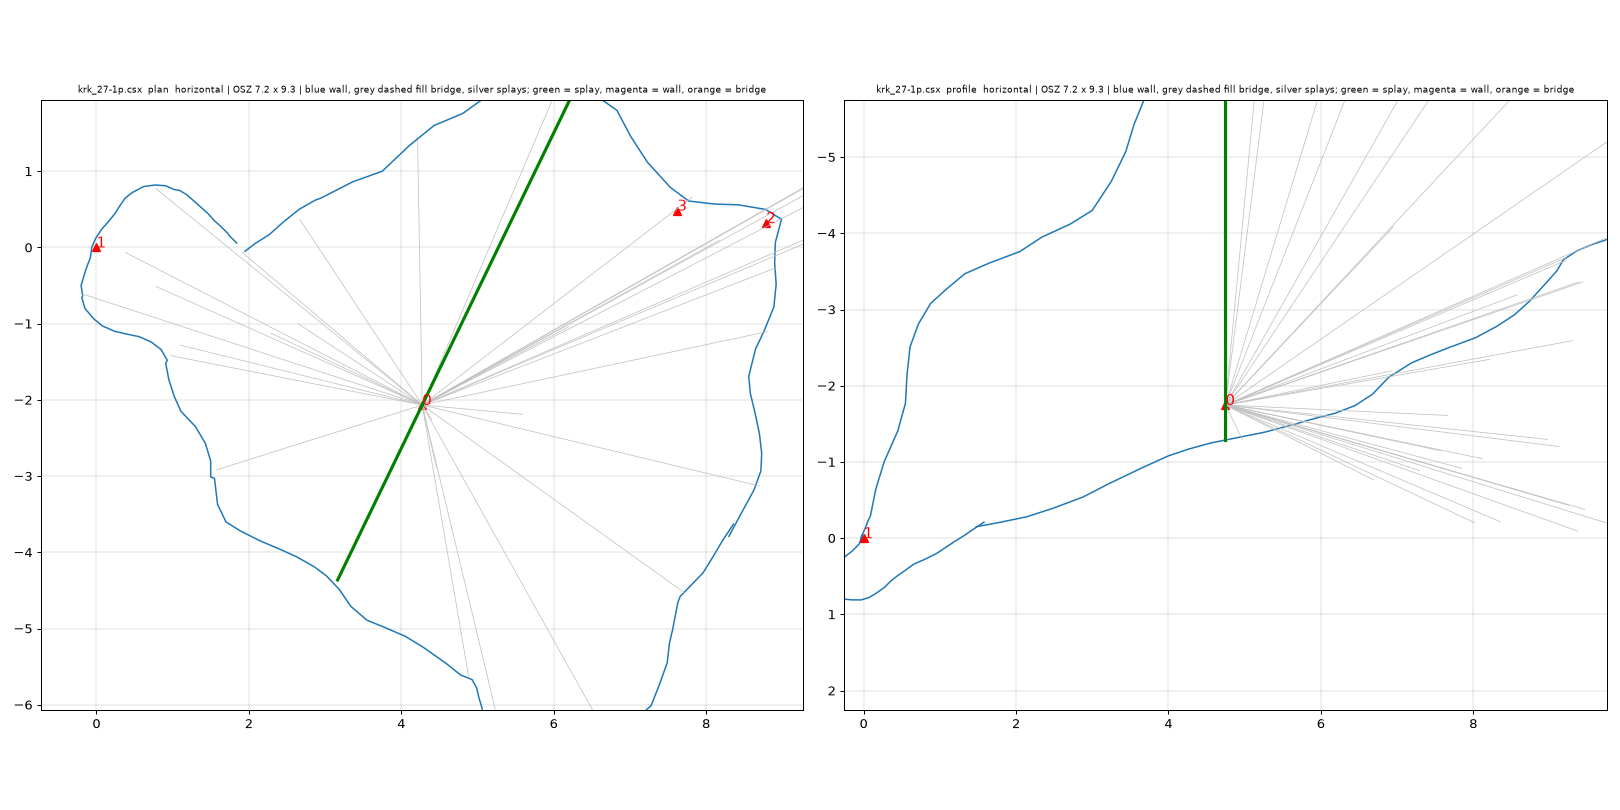
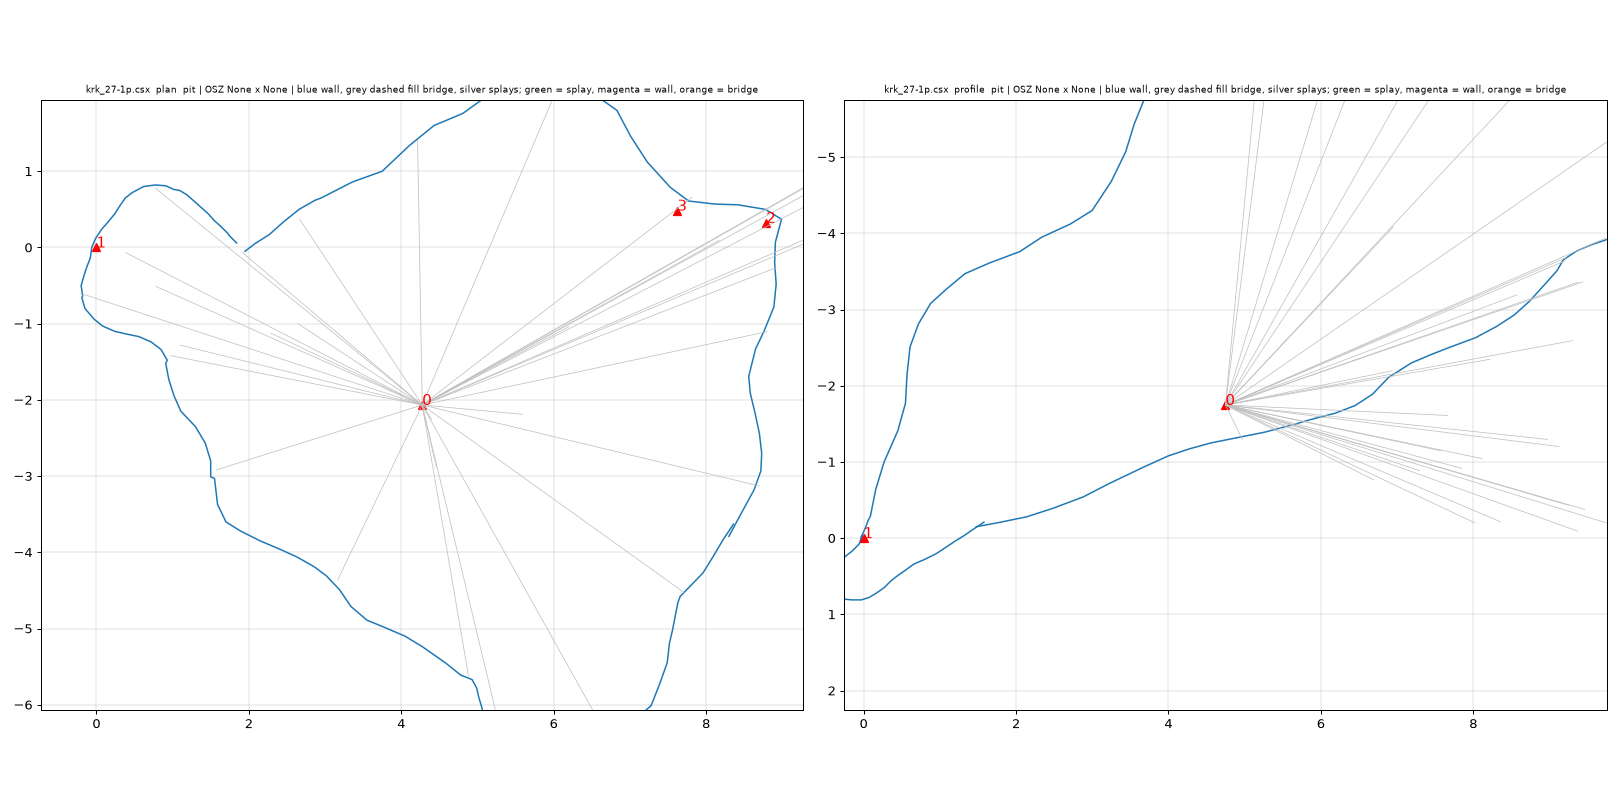
3N: entrance dimensions — rule 5: no size without a witnessed entrance (project 0005)
The entrance sign (or the finisher's flag, a surface leg, the operator) is required for the
entrance size; a highest-station guess gets the warning "nacrtaj znak ulaza" and no number. A pit
station with a roof drawn > 0.3 m above it is not on the rim and is declined too. Corpus: 7
measured, 4 declined (cepavpic, krk_27, krk_37 without a sign; Sopaca under a roof).

Changed region(s): [[0.5556, 0.0926, 0.9877, 0.1235], [0.0309, 0.0926, 0.463, 0.1235]]

diff --git a/stages/3N-nacrt/projects/0005-entrance-dimensions/findings/entrance_dims_proto.py b/stages/3N-nacrt/projects/0005-entrance-dimensions/findings/entrance_dims_proto.py
@@ -13,6 +13,11 @@ Rules (user, 2026-10-02/03 - see brief.md section 3, phase 2):
      every splay from the station, min/max Feret extents) with the walls as
      fallback; width = the smaller number, visina/duljina = the larger.
   4. Both numbers round to one decimal (0.1 m).
+  5. No size without a deliberate entrance witness: the drawn entrance sign, the
+     finisher's trigpoint flag, a surface leg, or the operator. A station picked
+     only because it is the highest gets a warning, not a number (krk_27's highest
+     station was a blind aven). A pit station with a roof drawn above it is not
+     on the rim, so it gets a warning too.
 
 Walls = Borders-layer items split into sequences on the B (BeginSequence)
 point flag (cSurvey cPoints.vb:564). cSurvey strokes each sequence on its own
@@ -41,6 +46,7 @@ SCAN_STEP = 0.1
 MAX_REACH_M = 15.0      # a wall further than this is not this entrance's wall
 BRIDGE_MAX_M = 5.0      # a fill bridge longer than this is a drawing-order artifact, not an edge
 PIT_RAYS = 24           # directions for the wall-based pit footprint
+ROOF_MIN_M = 0.3        # a profile wall closer above a pit station is its own floor/surface line, not a roof
 RAW_WALL_NAMES = ("wall", "wall:presumed")
 
 
@@ -162,12 +168,12 @@ def entrance_station(root, st, warn, forced=None):
     blind 20 m aven, its dome drawn 0.2 m over station 3; the entrance is station 0,
     where the survey started)."""
     if forced is not None:
-        return forced, "forced (registry / operator)"
+        return forced, "forced (registry / operator)", True
     tps = root.find("trigpoints")
     if tps is not None:
         for tp in tps.findall("trigpoint"):
             if tp.get("entrance") == nf.ENTRANCE_MAIN:
-                return tp.get("name"), "trigpoint entrance=2"
+                return tp.get("name"), "trigpoint entrance=2", True
     objs = [nf.Station(n, s["x"], s["y"], s["z"], s["d"]) for n, s in st.items()]
     cave, outside = nf.split_cave_stations(root, objs)
     outer = [s for s in objs if s.name in outside]
@@ -184,9 +190,10 @@ def entrance_station(root, st, warn, forced=None):
             if w is not None and w["station"] == witnesses.get("highest"):
                 warn("znak ulaza u %su pokazuje na najvisu stanicu %s, drugi znak na %s - uzimam %s"
                      % ("tlocrt" if design == "plan" else "profil", w["station"], chosen, w["station"]))
-                return w["station"], "%s sign agrees with the highest station (other sign overruled)" % design
-    # the highest station alone chose: is there sky above it?
-    if witnesses.get("decision", "").startswith("najvisa stanica") and chosen in st:
+                return w["station"], "%s sign agrees with the highest station (other sign overruled)" % design, True
+    # the highest station alone chose: a weak witness, and is there even sky above it?
+    weak = witnesses.get("decision", "").startswith("najvisa stanica")
+    if weak and chosen in st:
         paths, _bridges = wall_paths(root, "profile")
         roof = ray_hit((st[chosen]["d"], st[chosen]["z"]), (0.0, -1.0), paths, reach=BLIND_TOP_M)
         if roof is not None:
@@ -194,8 +201,8 @@ def entrance_station(root, st, warn, forced=None):
             warn("najvisa stanica %s ima nacrtan strop %.1f m iznad sebe (slijepi dimnjak) - uzimam prvu stanicu "
                  "vlaka %s; nacrtaj znak ulaza" % (chosen, roof[0], start))
             if start in st:
-                return start, "first station of the survey (highest station %s has a drawn roof %.1f m above it)" % (chosen, roof[0])
-    return chosen, how
+                return start, "first station of the survey (highest station %s has a drawn roof %.1f m above it)" % (chosen, roof[0]), False
+    return chosen, how, not weak
 
 
 # ---------------------------------------------------------------------------
@@ -377,10 +384,18 @@ def analyse(path, kind=None, entrance=None):
     sh = shots(root)
     report = dict(file=os.path.basename(path), raw=is_raw(root), warnings=[])
     warn = report["warnings"].append
-    ent, how = entrance_station(root, st, warn, entrance)
-    report.update(entrance=ent, entrance_how=how)
+    ent, how, witnessed = entrance_station(root, st, warn, entrance)
+    report.update(entrance=ent, entrance_how=how, entrance_witnessed=witnessed)
     if ent not in st:
         warn("entrance station %r has no coordinates" % ent)
+        return report, None
+    if not witnessed:
+        # user rule 2026-10-03: no deliberate witness (sign, finisher flag, surface leg,
+        # operator) = no entrance size. The highest station is a guess (krk_27's was a
+        # blind aven), and a size at a guessed station is worse than none.
+        warn("ulaz nije oznacen (nema znaka ulaza ni povrsinskog vlaka) - dimenzije ulaza nisu izracunate; "
+             "nacrtaj znak ulaza na ulaznoj stanici")
+        report["osz"] = dict(sirina_ulaza=None, visina_duljina_ulaza=None, sources=["no witnessed entrance"])
         return report, None
     E = st[ent]
     sps = splay_vectors(root, ent, E)
@@ -454,6 +469,19 @@ def analyse(path, kind=None, entrance=None):
                              sources=[wsrc, hsrc])
     else:
         # ---- pit: the opening is a hole in the plan - splay cloud first, wall footprint as fallback
+        roof = ray_hit((E["d"], E["z"]), (0.0, -1.0), prof_walls[0])
+        if roof is not None and roof[0] < ROOF_MIN_M:
+            # the floor / surface line drawn through the station itself (Sopača's runs 0.0 m above 5)
+            roof = ray_hit((E["d"], E["z"] - ROOF_MIN_M), (0.0, -1.0), prof_walls[0])
+        if roof is not None:
+            # a rim station has sky above it; a roof drawn above means the station stands
+            # under the entrance (or elsewhere) and its splays describe a chamber (krk_27)
+            warn("jama: iznad ulazne stanice %s nacrtan je strop %.1f m visoko - stanica nije na rubu otvora, "
+                 "dimenzije ulaza nisu izracunate" % (ent, roof[0]))
+            report["plan"] = dict(roof_above_m=round(roof[0], 2))
+            report["profile"] = dict(station_at=[round(E["d"], 2), round(E["z"], 2)])
+            report["osz"] = dict(sirina_ulaza=None, visina_duljina_ulaza=None, sources=["pit station under a roof"])
+            return report, (root, st, E, axis, across, plan_walls, prof_walls, sps)
         cloud = [(sp["dx"], sp["dy"]) for sp in sps] + [(0.0, 0.0)]
         splay_ext = None
         if len(sps) >= 3:

diff --git a/stages/3N-nacrt/projects/0005-entrance-dimensions/findings/run_corpus.py b/stages/3N-nacrt/projects/0005-entrance-dimensions/findings/run_corpus.py
@@ -33,6 +33,6 @@ for f in sorted(f for f in glob.glob("*.csx") + glob.glob("*.csz") if "_backup" 
             print("   width  %-5s a=%s b=%s | walls %s" % (p["width_m"], p["side_a"], p["side_b"], p["wall_narrowest"] and p["wall_narrowest"]["width_m"]))
             print("   height %-5s up=%s down=%s | walls %s" % (pr["height_m"], pr["up"], pr["down"], pr["wall_narrowest"] and pr["wall_narrowest"]["height_m"]))
         elif rep.get("kind") == "pit":
-            print("   splay cloud %s | wall footprint %s" % (rep["plan"]["splay_cloud"], rep["plan"]["wall_footprint"]))
+            print("   splay cloud %s | wall footprint %s" % (rep["plan"].get("splay_cloud"), rep["plan"].get("wall_footprint")))
     except Exception:
         print("## %-46s ERROR" % f[:46]); traceback.print_exc(limit=2)

diff --git a/stages/3N-nacrt/projects/0005-entrance-dimensions/brief.md b/stages/3N-nacrt/projects/0005-entrance-dimensions/brief.md
@@ -1,7 +1,7 @@
 # Task brief: Entrance dimensions — read the entrance width and height off the finished survey
 
 - **ID:** 0005-entrance-dimensions
-- **Status:** `validation` — rules settled 2026-10-02/03; corpus of 11 surveys run 2026-10-03 (§3, "Corpus run"); the user confirmed Tavnjak's entrance 8 (sign tie-break accepted) and that pljeskavica is a pit → the cave's **type comes from the registry** (SB / OSZ), geometry only as fallback. Open: Sopača. Next: phase 3 (fold into `nacrt_finish.py`)
+- **Status:** `validation` — five rules settled 2026-10-02/03 (the fifth: no size without a deliberate entrance witness); corpus of 11 surveys: 7 measured, 4 declined with a warning (3 without an entrance sign, Sopača's station under a roof). Nothing left to vouch. Next: phase 3 (fold into `nacrt_finish.py`)
 - **Owner:** both
 - **Opened:** 2026-10-02 · **Closed:** —
 - **Read first:** [the superapp CLAUDE.md](../../../../CLAUDE.md), [README.md](../../README.md), [0004-nacrt-finishing/brief.md](../0004-nacrt-finishing/brief.md) (the entrance-station decision this builds on), `production/tools/nacrt_finish.py` (`decide_entrance`, `wall`/`item_points` helpers)
@@ -108,6 +108,11 @@ wall, orange = hit on a fill bridge, grey dashed = bridges), `findings/SB_1220_p
    fallback; **Širina = the smaller, Visina/duljina = the larger** (1 × 2, never 2 × 1). For a
    horizontal entrance width stays the plan and height the profile.
 4. *Format:* **one decimal** (2026-10-03; the first call was whole metres).
+5. *No size without a witnessed entrance* (user, 2026-10-03): the drawn entrance sign, the finisher's
+   trigpoint flag, a surface leg or the operator's word name the station; a station picked only
+   because it is the highest gets a warning ("nacrtaj znak ulaza") and no number — krk_27's highest
+   station was a blind aven. A pit station with a roof drawn more than 0.3 m straight above it is not
+   on the rim (its splays describe a chamber) and is declined the same way.
 
 Applied (prototype rerun, `findings/SB_*_report.json`):
 
@@ -128,12 +133,12 @@ copied to `findings/corpus/` because `example/` is gitignored. Numbers in metres
 |---|---|---|---|---|---|---|
 | 272 | `_lt` | pit (shot 85°) | 4 (highest + sign) | **1.6 × 3.3** | splays (walls: 4.1 × 7.2 = whole chamber) | plausible — the rim station's splays span the mouth |
 | Golobreška (SB 1103) | `_lt_fin` | pit (88°) | 2 (flag) | **1.1 × 1.7** | splays | as before |
-| Sopača | `-1p` imported | pit (70°) | 5 (highest + sign) | **13.6 × 17.5** | splays; walls absent around 5 | **check** — station 5 sits outside the drawn plan, 11 flat splays up to 17 m: a doline rim, or a surface station? |
+| Sopača | `-1p` imported | pit (70°) | 5 (highest + sign) | **—** | declined: a wall is drawn 1.1 m above station 5 | not on a rim (the station also sits outside the drawn plan); the earlier 13.6 × 17.5 from its long flat splays is withdrawn |
 | bezdanka iznad Lalica | imported | pit (6 of 16 splays dive > 45°) | 5 (highest + sign) | **4.7 × 8.4** | splays (walls 6.8 × 11.2) | plausible; was `horizontal` before the splay-based pit test |
-| kilavčev cepavpic | `_pp` | pit (80°) | 4 (highest) | **1.1 × 2.4** | splays (walls 1.6 × 3.2) | plausible |
+| kilavčev cepavpic | `_pp` | pit (80°) | 4 (highest only) | **—** | declined: no entrance sign, no surface leg | the splays would say 1.1 × 2.4 — draw the sign and it is measured |
 | kilavčeva pljeskavica | `_pp` | **pit (registry; geometry said horizontal: shot 35°, 7 flat splays)** | 3 (flag) | **4.7 × 8.5** | splays (walls 3.7 × 10.8) | the user: it is a pit; the rim station's flat splays span the hole, like 272 — the type must come from SB / OSZ, not from geometry |
-| krk_27 | **raw** | horizontal by geometry (20°), type unknown | **0** (first station of the survey; the highest, 3, has a drawn roof 0.2 m above it — a blind 20 m aven) | **7.2 × 9.3** as horizontal, 8.6 × 12.9 as pit | splays | **check** — the user: the entrance is 0, which the data cannot show (no sign, no surface leg; the first run took 3). The numbers at 0 are the chamber, not the opening: a drawn ceiling 9.5 m above 0, 33 splays to the chamber walls, nothing describing the entrance itself |
-| krk_37 | **raw** | horizontal (40°) | 0 (highest) | **0.9 × 1.4** | walls (no splays at 0) | raw; the `wall` lines are tight around station 0 |
+| krk_27 | **raw** | — | 0 (first station; the highest, 3, has a roof 0.2 m above it) | **—** | declined: no entrance sign; forced to 0 as a pit it is declined again, roof 9.6 m above | the user: the entrance is 0; the survey holds nothing that describes that opening |
+| krk_37 | **raw** | — | 0 (highest only) | **—** | declined: no entrance sign | the walls would say 0.9 × 1.4 |
 | sp7 Brad/Kosa/Plazibat špilja | imported | horizontal (22°) | 9 (highest-ties + sign) | **2.7 × 2.2** | splays (walls 3.1 × 2.3) | plausible; station 10 is 3.3 m higher — a side entrance or surface point? |
 | špilja Bunker (Studena) | `_pp` | horizontal (11°) | 5 (sign; highest is 1) | **2.6 × 1.5** | splays (walls 2.4 × 1.4) | plausible, sources agree |
 | Tavnjak (Mune) | imported | pit (86°) | **8** (profile sign + highest; plan sign at 7 overruled) | **2.0 × 6.2** | splays (walls 3.2 × 6.0) | plausible once the entrance is 8; station 7 is a ledge 20 m down the shaft; **confirmed by the user 2026-10-03** (the plan sign was attached to the wrong station) |

diff --git a/STATUS.md b/STATUS.md
@@ -224,7 +224,7 @@ before M2 finishes is allowed (ARCHITECTURE calls the M3/M4 order flexible).
 ## Waiting on user
 
 - **3N cSurvey settings:** close cSurvey and run `python stages/3N-nacrt/production/tools/csurvey_app_settings.py apply` once (pen smoothing is still on here; the live `apply` was blocked because cSurvey was open), then `/publish` the csx kit (v1.6: KORAK 0, the per-cave mapping, `tdx_mapping.py`, en-dash messages, red station numbers). Name further settings to predefine as they come up. Decide the mapping for the speleo 2 symbols that arrive without a proper sign (dashboard › 3N › Mapiranje › "Bez pravog znaka"); an agent can propose a first pass.
-- **3N entrance dimensions (project 0005):** two caves to settle — Sopača (13.6 × 17.5 from station 5, which sits outside the drawn plan: doline rim or surface tie-in?) and krk_27 (entrance is station 0 per the user, but the survey holds nothing that describes that opening — what does the entrance at 0 look like?). Then phase 3 (fold into `nacrt_finish.py`, with the sign tie-break, the blind-dome guard and the registry-type lookup).
+- **3N entrance dimensions (project 0005):** nothing left to vouch — rule 5 (no size without an entrance sign / surface leg; no size for a pit station under a drawn roof) declines Sopača, cepavpic and the two Krk files with a warning instead of a guess. Next is phase 3: fold into `nacrt_finish.py` (sign tie-break, blind-dome guard, registry type, rule 5) → `_dimenzije.json` → 4O prefill. Say when.
 
 - ~~Society's blank OSZ template DOCX~~ → delivered 2026-08-23:
   [stages/4O-osz/src/cave_dossier/osz/templates/Zapisnik_OSZ_v10.docx](stages/4O-osz/src/cave_dossier/osz/templates/Zapisnik_OSZ_v10.docx)

diff --git a/stages/3N-nacrt/projects/0005-entrance-dimensions/log.md b/stages/3N-nacrt/projects/0005-entrance-dimensions/log.md
@@ -83,3 +83,16 @@ Brief: [brief.md](brief.md)
   what the entrance at 0 looks like (skylight above? passage in?) before a rule can be written.
 - **Evidence:** `findings/corpus/krk_27-1p.json`, `example/csx_entrances/_out/krk_27_items.png` (plan + profile with every symbol).
 - **Next:** the user describes krk_27's entrance; Sopača's verdict; phase 3.
+
+### 2026-10-03 (evening) — rule 5: no size without a witnessed entrance (user + agent) ✅
+
+- **Did:** the user's rule: the entrance sign is a requirement for the entrance size, otherwise a warning and
+  no number. Implemented as `entrance_witnessed` (sign, finisher flag, surface leg, operator = yes; highest
+  station or first station = no) plus, for pits, a roof test (a profile wall drawn > 0.3 m straight above the
+  station = not on the rim; the 0.3 m skips the floor/surface line drawn through the station itself).
+- **Result:** 7 measured, 4 declined with a Croatian warning: cepavpic, krk_27, krk_37 (no sign) and Sopača
+  (roof 1.1 m above station 5 — which also sits outside the drawn plan; its 13.6 × 17.5 is withdrawn). krk_27
+  forced to station 0 is declined too (roof 9.6 m above). Nothing left to vouch.
+- **Evidence:** `findings/corpus/*.json` refreshed.
+- **Next:** phase 3 — fold into `nacrt_finish.py` with the sign tie-break, the blind-dome guard, the registry
+  type and rule 5; `_dimenzije.json`; 4O prefill.

diff --git a/journal/SESSIONS.md b/journal/SESSIONS.md
@@ -40,7 +40,12 @@ numbers through the mapping in
   choice with a drawn roof within 1 m above it falls back to the survey's first station, with a warning to draw the
   entrance sign; `--entrance` / `entrances.json` for when the operator knows. The numbers at 0 are the chamber, not the
   opening - nothing in the survey describes krk_27's entrance.
-- **Next:** krk_27's entrance described by the user; Sopača's verdict; phase 3.
+- **Rule 5 (user, evening):** the entrance sign is a requirement for the size - no sign, no surface leg, no
+  operator's word = a warning ("nacrtaj znak ulaza") and no number; the highest-station guess never yields a
+  size. Plus a roof test for pits (a wall drawn > 0.3 m straight above the station = not on the rim). Corpus:
+  7 measured, 4 declined (cepavpic, krk_27, krk_37 without a sign; Sopača under a roof - its 13.6 × 17.5
+  withdrawn). Nothing left to vouch.
+- **Next:** phase 3.
 
 ### 2026-10-03 (later) — 3N Mapiranje review round, en dash everywhere, speleo 2 set (agent) ✅
 

diff --git a/docs/design-decisions.md b/docs/design-decisions.md
@@ -1206,6 +1206,13 @@ Measured: SB 1220 (horizontal, station 4) 0.57 × 1.37 m from splays 4(71),
   20 m down the shaft, the profile's sign and the highest station agreed on the rim;
   the user confirmed the rim. `decide_entrance` still takes the plan on disagreement -
   to change in phase 3 (backlog).
+- **No size without a witnessed entrance (2026-10-03).** The entrance sign (or the
+  finisher's flag, a surface leg, or the operator's word) is a requirement for the
+  entrance size; a station picked only because it is the highest gets the warning
+  "nacrtaj znak ulaza" and no number. krk_27's highest station was the top of a
+  blind 20 m aven. A pit station with a roof drawn more than 0.3 m straight above it
+  is not on the rim - its splays describe a chamber (krk_27 station 0, Sopača
+  station 5) - and is declined the same way.
 Code: `findings/entrance_dims_proto.py` in the project folder; to be folded
 into `nacrt_finish.py` and carried by `_dimenzije.json` to 4O's prefill.
 

diff --git a/journal/backlog.md b/journal/backlog.md
@@ -402,3 +402,7 @@ when an idea's time comes. Nothing here is a commitment.
 - 2026-10-03 — 3N `decide_entrance`: blind-dome guard - when only the highest station chose the entrance and a
   profile wall is drawn within 1 m straight above it, take the survey's first station and warn (krk_27).
   Prototype in project 0005 does it; fold in with the sign tie-break in phase 3.
+- 2026-10-03 — 3N phase 3 of project 0005: fold the entrance measurement into `nacrt_finish.py` - sign
+  tie-break, blind-dome guard, registry type (SB jama/špilja), rule 5 (no size without a witnessed entrance,
+  pit station under a roof declined), `read_stations` d fix; sidecar + `_dimenzije.json` keys; 4O prefill
+  of `sirina_ulaza` / `visina_duljina_ulaza`; tests from the 11-survey corpus.
